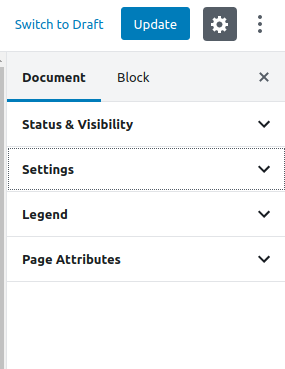
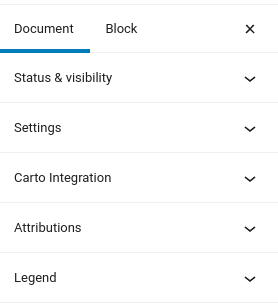
Deployed 4a2f424 with MkDocs version: 1.0.4

diff --git a/layer-post/index.html b/layer-post/index.html
@@ -86,7 +86,7 @@
                 <h1 id="creating-a-layer">Creating a layer</h1>
 <p>One of the custom post types that JEO plugin provides is <strong>Layer</strong>. Is in the layer where you will be able to add legend and color to your map. A map may contain one or more layers.</p>
 <p><img alt="Post Type Layers" src="../img/post-type-layers.png" /></p>
-<p>Entering the Layer post editor, you'll see a preview of the current layer (or a default layer if the current layer haven't been edited yet) and two sidebar panels: <strong>Settings</strong> and <strong>Legend</strong>.</p>
+<p>Entering the Layer post editor, you'll see a preview of the current layer (or a default layer if the current layer haven't been edited yet) and four sidebar panels: <strong>Settings</strong>, <strong>Carto Integration</strong>, <strong>Attributions</strong> and <strong>Legend</strong>.</p>
 <p><img alt="Layer Sidebar" src="../img/layer-sidebar.png" /></p>
 <h2 id="layer-settings">Layer settings</h2>
 <p>On the <strong>Layer settings</strong> panel, you can change the layer type.</p>
@@ -103,8 +103,19 @@
 <p><img alt="Layer interactions" src="../img/layer-interactions.png" /></p>
 <h2 id="layer-legend">Layer legend</h2>
 <p>On the <strong>Layer legend</strong> panel, you can add legends to your layer (barscale, simple-color, icons or circles and colorize them.</p>
-<p>TODO: layer legend</p>
 <p><img alt="Layer legend" src="../img/layer-legend.png" /></p>
+<h2 id="creating-a-carto-integrated-layer">Creating a Carto integrated Layer</h2>
+<p>When the checkbox <code>Use integration</code> is selected, the following field shows up:
+    - SQL Query: Code that'll be used to retrieve layer data from Carto.</p>
+<p><img alt="Carto Layer Settings" src="../img/carto-layer-settings.png" />
+<img alt="Carto Layer Settings" src="../img/carto-layer-settings2.png" /></p>
+<p>To get this SQL Query, go to your Carto Dashboard page and click on the map which has the layer to be used in the plugin.
+<img alt="Carto Layer Settings" src="../img/carto-layer-settings3.png" /></p>
+<p>Inside the map page, a layer list will be shown.
+<img alt="Carto Layer Settings" src="../img/carto-layer-settings4.png" /></p>
+<p>Select a layer and go to Data tab. At the sidebar's bottom, change from <code>Values</code> to <code>SQL</code>. The code that will be shown is the SQL Query.
+<img alt="Carto Layer Settings" src="../img/carto-layer-settings5.png" />
+<img alt="Carto Layer Settings" src="../img/carto-layer-settings6.png" /></p>
               
             </div>
           </div>

diff --git a/getting-started/index.html b/getting-started/index.html
@@ -90,8 +90,8 @@
 <p>Under JEO main menu, at Jeo Settings page, you can configure:</p>
 <ul>
 <li>the default latitude, longitude, and zoom for your maps;</li>
-<li>the <a href="https://docs.mapbox.com/help/how-mapbox-works/access-tokens/">Mapbox API settings</a> and Carto API settings that'll be used by the plugin;</li>
-<li>the update interval for carto retrieve layers data (if carto layers is being used);</li>
+<li>the <a href="https://docs.mapbox.com/help/how-mapbox-works/access-tokens/">Mapbox API settings</a> and <a href="https://carto.com/developers/carto-js/guides/get-api-key/">Carto API settings</a> that'll be used by the plugin;</li>
+<li>the update interval related to carto layers data (if carto layers are being used);</li>
 <li>the geocoder that'll be used by the plugin -- currently only <a href="https://nominatim.openstreetmap.org/">Nominatim</a> is available.7</li>
 <li>the style of some functionalities of the plugin, such as fonts ans colors.</li>
 </ul>

diff --git a/index.html b/index.html
@@ -185,5 +185,5 @@
 
 <!--
 MkDocs version : 1.0.4
-Build Date UTC : 2021-01-13 18:01:21
+Build Date UTC : 2021-01-13 18:39:06
 -->
